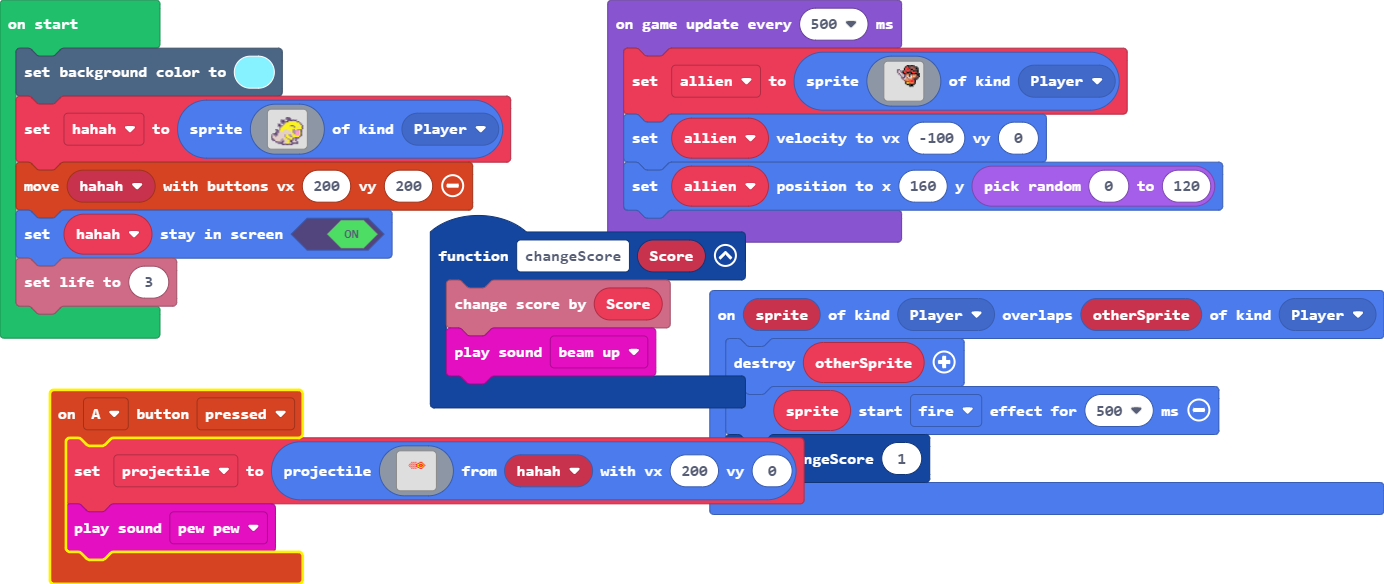
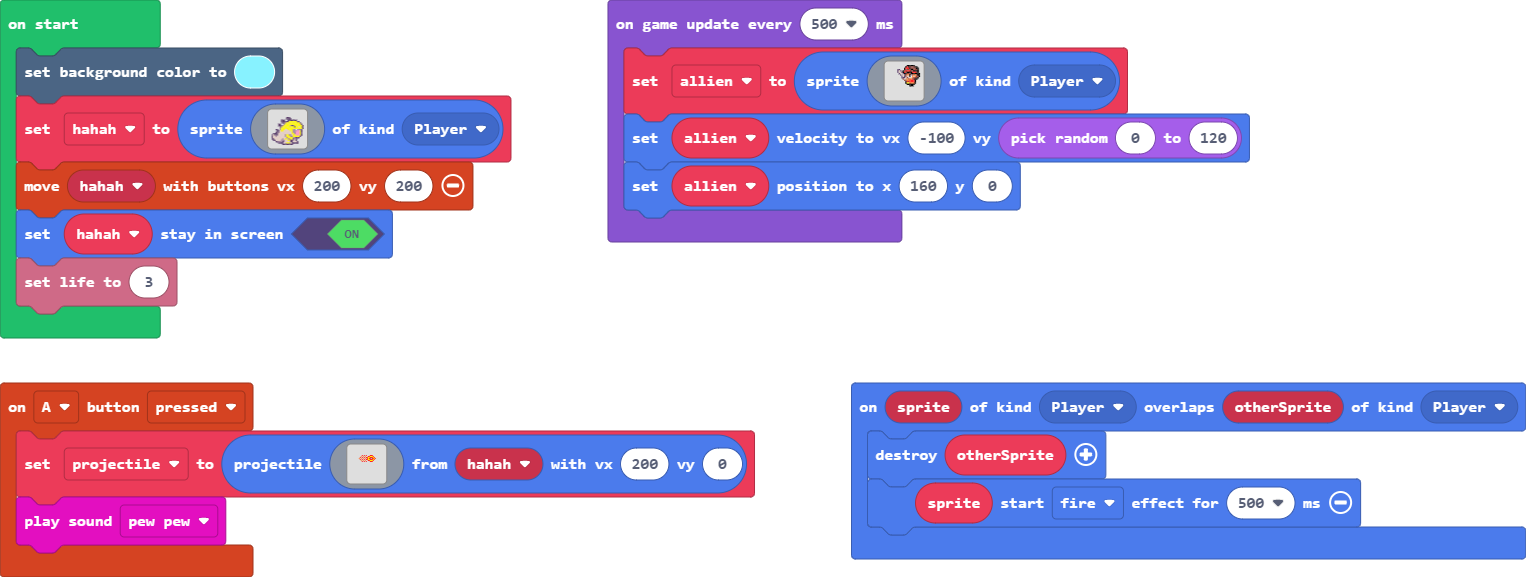
Update main.blocks, main.ts

diff --git a/main.ts b/main.ts
@@ -35,14 +35,9 @@ controller.A.onEvent(ControllerButtonEvent.Pressed, function () {
         `, hahah, 200, 0)
     music.pewPew.play()
 })
-function changeScore (Score: number) {
-    info.changeScoreBy(Score)
-    music.beamUp.play()
-}
 sprites.onOverlap(SpriteKind.Player, SpriteKind.Player, function (sprite, otherSprite) {
     otherSprite.destroy()
     sprite.startEffect(effects.fire, 500)
-    changeScore(1)
 })
 let allien: Sprite = null
 let projectile: Sprite = null
@@ -104,6 +99,6 @@ game.onUpdateInterval(500, function () {
         ........................
         ........................
         `, SpriteKind.Player)
-    allien.setVelocity(-100, 0)
-    allien.setPosition(160, randint(0, 120))
+    allien.setVelocity(-100, randint(0, 120))
+    allien.setPosition(160, 0)
 })
